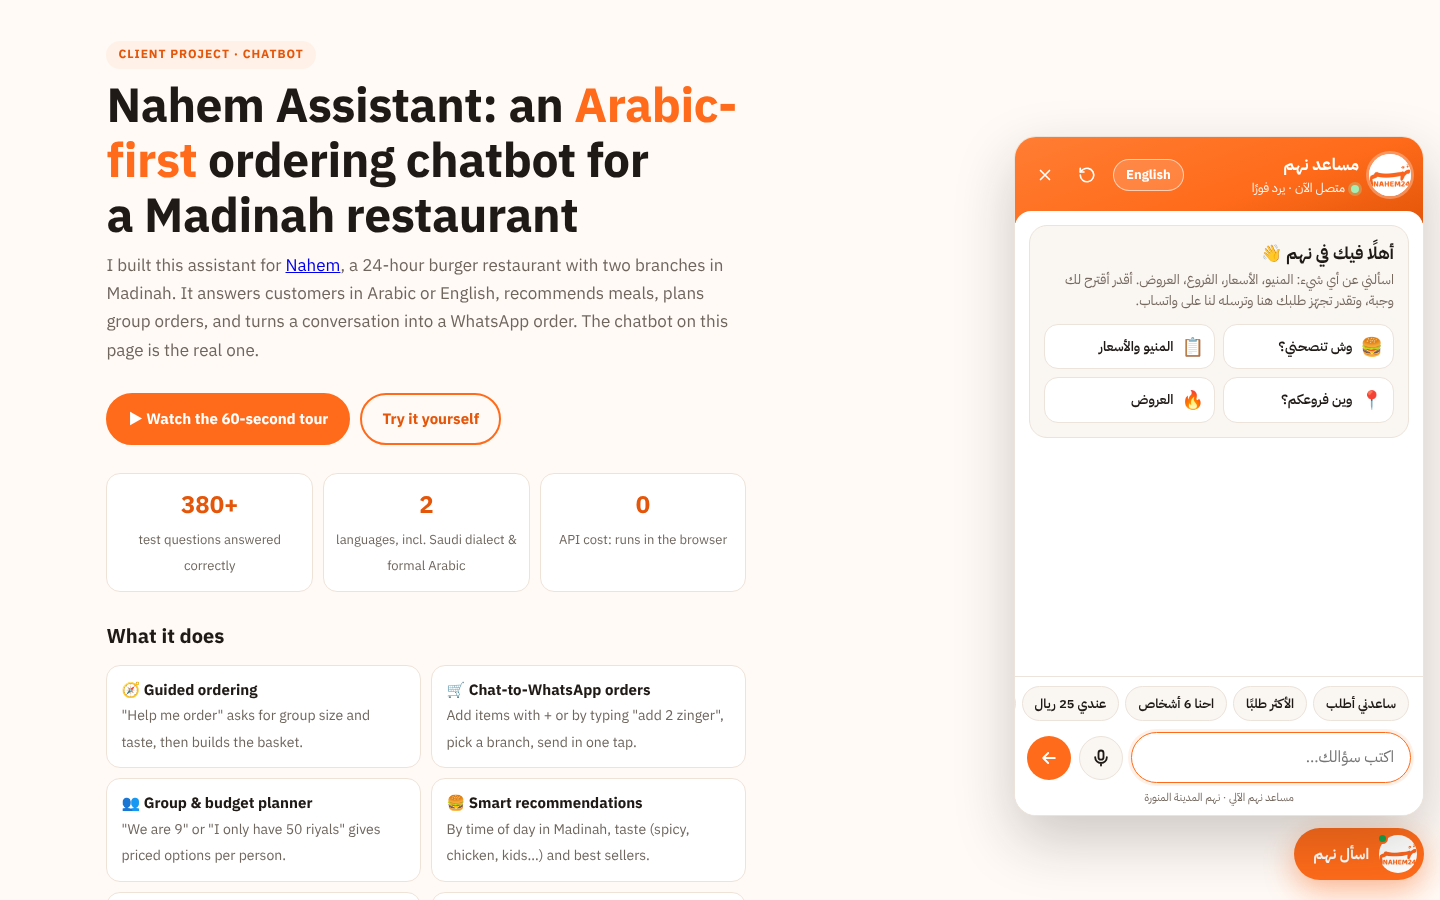
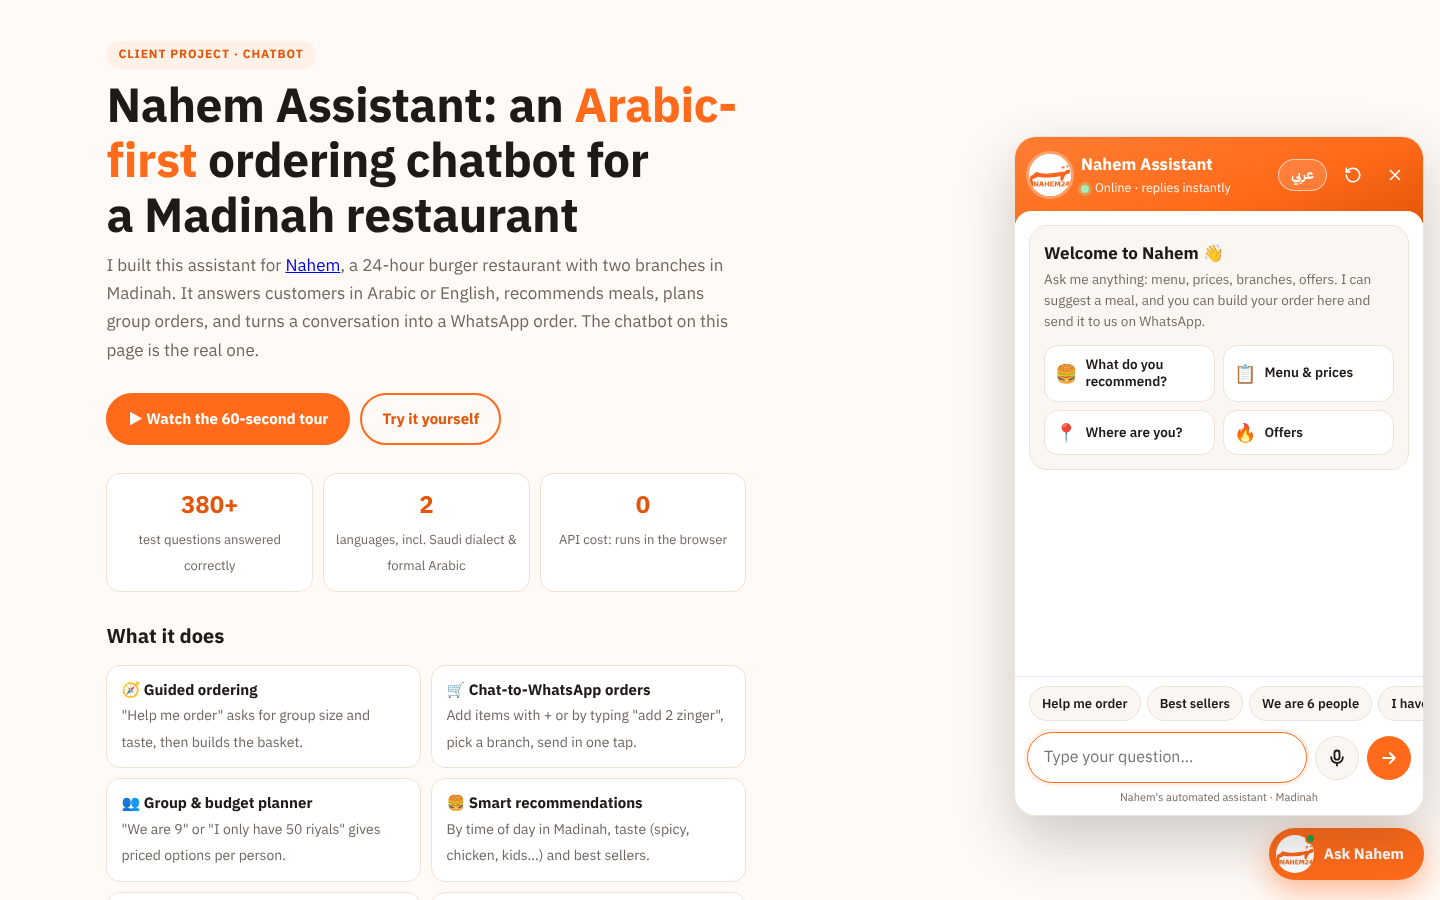
Make the live demo and tour English-first
The demo page now opens the chatbot in English, the guided tour asks
English questions and ends by switching to Saudi-dialect Arabic, and
the README GIF shows the English tour.

Claude-Session: https://claude.ai/code/session_01E8EqyxXZhv5WiyTbKqd3J2

Changed region(s): [[0.7188, 0.28, 0.9688, 0.4978], [0.7188, 0.7778, 1.0, 0.9956], [0.6875, 0.1556, 1.0, 0.2178]]

diff --git a/docs/index.html b/docs/index.html
@@ -104,7 +104,7 @@ button:focus-visible, a:focus-visible { outline:3px solid var(--o); outline-offs
 <div class="caption" id="caption" role="status" aria-live="polite" hidden></div>
 
 <script>
-  const SAMPLES = ["ساعدني أطلب", "وش تنصحني؟", "احنا 9 أشخاص وش نطلب؟", "عندي 25 ريال", "عندكم شي حار؟", "كم سعرات الزنجر؟", "عندكم بيتزا؟", "أضف بوكس البرجر", "what do u reccomend", "is the burger beef or chicken?"];
+  const SAMPLES = ["Help me order", "What do you recommend?", "We are 9 people", "I only have 25 riyals", "Anything spicy?", "Calories in the zinger?", "Do you have pizza?", "Add a Burger Box", "what do u reccomeed", "وش تنصحني؟"];
   const tryBox = document.getElementById("try");
   for (const q of SAMPLES) {
     const b = document.createElement("button");
@@ -116,22 +116,22 @@ button:focus-visible, a:focus-visible { outline:3px solid var(--o); outline-offs
 
   /* the guided tour: real questions typed into the real chatbot, one feature at a time */
   const TOUR = [
-    { cap: "Arabic by default. Ask it what it can do", ask: "وش تقدر تسوي؟" },
-    { cap: "Recommendations based on the time of day in Madinah", ask: "وش تنصحني؟" },
-    { cap: "Guided ordering: group size, then taste", ask: "ساعدني أطلب" },
+    { cap: "Ask it what it can do", ask: "What can you do?" },
+    { cap: "Recommendations based on the time of day in Madinah", ask: "What do you recommend?" },
+    { cap: "Guided ordering: group size, then taste", ask: "Help me order" },
     { cap: "Guided ordering: 3 people…", ask: "3" },
-    { cap: "…a mix of chicken and beef, with a ready basket", ask: "منوّع 🤝" },
+    { cap: "…a mix of chicken and beef, with a ready basket", ask: "A mix 🤝" },
     { cap: "One tap adds the whole suggestion to the order", action: true },
-    { cap: "Group planner with per-person prices", ask: "احنا 9 أشخاص وش نطلب؟" },
-    { cap: "Formal Arabic and budgets: \"I only have 50 riyals\"", ask: "أريد أن أطلب، لكن لا أملك سوى 50 ريالًا" },
-    { cap: "Taste filters: something spicy", ask: "عندكم شي حار؟" },
-    { cap: "Exact calories from the printed menu", ask: "كم سعرات الزنجر؟" },
-    { cap: "Honest about what is not on the menu", ask: "عندكم بيتزا؟" },
-    { cap: "Order by typing: \"add 2 karak\"", ask: "ابي 2 كرك" },
-    { cap: "The basket: pick a branch, send the order on WhatsApp", ask: "سلتي", branch: true },
-    { cap: "Switches to English on request", ask: "speak english" },
+    { cap: "Group planner with per-person prices", ask: "We are 9 people, what should we order?" },
+    { cap: "Budget planner: the best meal for 50 riyals", ask: "I only have 50 riyals" },
+    { cap: "Taste filters: something spicy", ask: "Anything spicy?" },
+    { cap: "Exact calories from the printed menu", ask: "How many calories in the zinger?" },
+    { cap: "Honest about what is not on the menu", ask: "Do you have pizza?" },
+    { cap: "Order by typing: \"add 2 karak\"", ask: "Add 2 karak" },
+    { cap: "The basket: pick a branch, send the order on WhatsApp", ask: "My cart", branch: true },
     { cap: "Understands typos: \"what do u reccomeed\"", ask: "what do u reccomeed" },
-    { cap: "Follow-up questions keep context", ask: "is the burger beef or chicken?" }
+    { cap: "Arabic-first: switches to Arabic on request", ask: "تكلم عربي" },
+    { cap: "Saudi dialect: \"we're 6, what should we order?\"", ask: "احنا 6 وش نطلب؟" }
   ];
   const sleep = ms => new Promise(r => setTimeout(r, ms));
   const shadow = () => document.getElementById("nahem-chat").shadowRoot;
@@ -139,7 +139,7 @@ button:focus-visible, a:focus-visible { outline:3px solid var(--o); outline-offs
   play.onclick = async () => {
     if (!window.NahemChat) return;
     play.disabled = true;
-    NahemChat.setLang("ar"); NahemChat.reset(); NahemChat.open();
+    NahemChat.setLang("en"); NahemChat.reset(); NahemChat.open();
     await sleep(600);
     for (const step of TOUR) {
       cap.hidden = false; cap.textContent = step.cap;
@@ -155,6 +155,6 @@ button:focus-visible, a:focus-visible { outline:3px solid var(--o); outline-offs
   /* open the chat on wide screens; on phones the customer taps "Ask Nahem" */
   window.addEventListener("load", () => setTimeout(() => { if (window.NahemChat && innerWidth >= 1100) NahemChat.open(); }, 400));
 </script>
-<script src="chatbot.js" data-side="right" data-base="https://nahem24.com" data-logo="assets/chat-logo.png" data-thumbs="assets/chat/" defer></script>
+<script src="chatbot.js" data-lang="en" data-side="right" data-base="https://nahem24.com" data-logo="assets/chat-logo.png" data-thumbs="assets/chat/" defer></script>
 </body>
 </html>

diff --git a/README.md b/README.md
@@ -4,7 +4,7 @@ A bilingual (Arabic / English) customer assistant I built for **[Nahem](https://
 
 **▶ [Live demo with a guided tour](https://mohammed-890.github.io/nahem-chatbot/)**: press *Watch the 60-second tour* and the chatbot demonstrates every feature on its own.
 
-<p align="center"><img src="screenshots/demo-tour.gif" alt="The chatbot's guided tour: recommendations, guided ordering, group planning, calories, a WhatsApp basket and switching to English" width="360"></p>
+<p align="center"><img src="screenshots/demo-tour.gif" alt="The chatbot's guided tour in English: recommendations, guided ordering, group and budget planning, calories, a WhatsApp basket, typos, then switching to Arabic" width="360"></p>
 
 ## The problem
 
